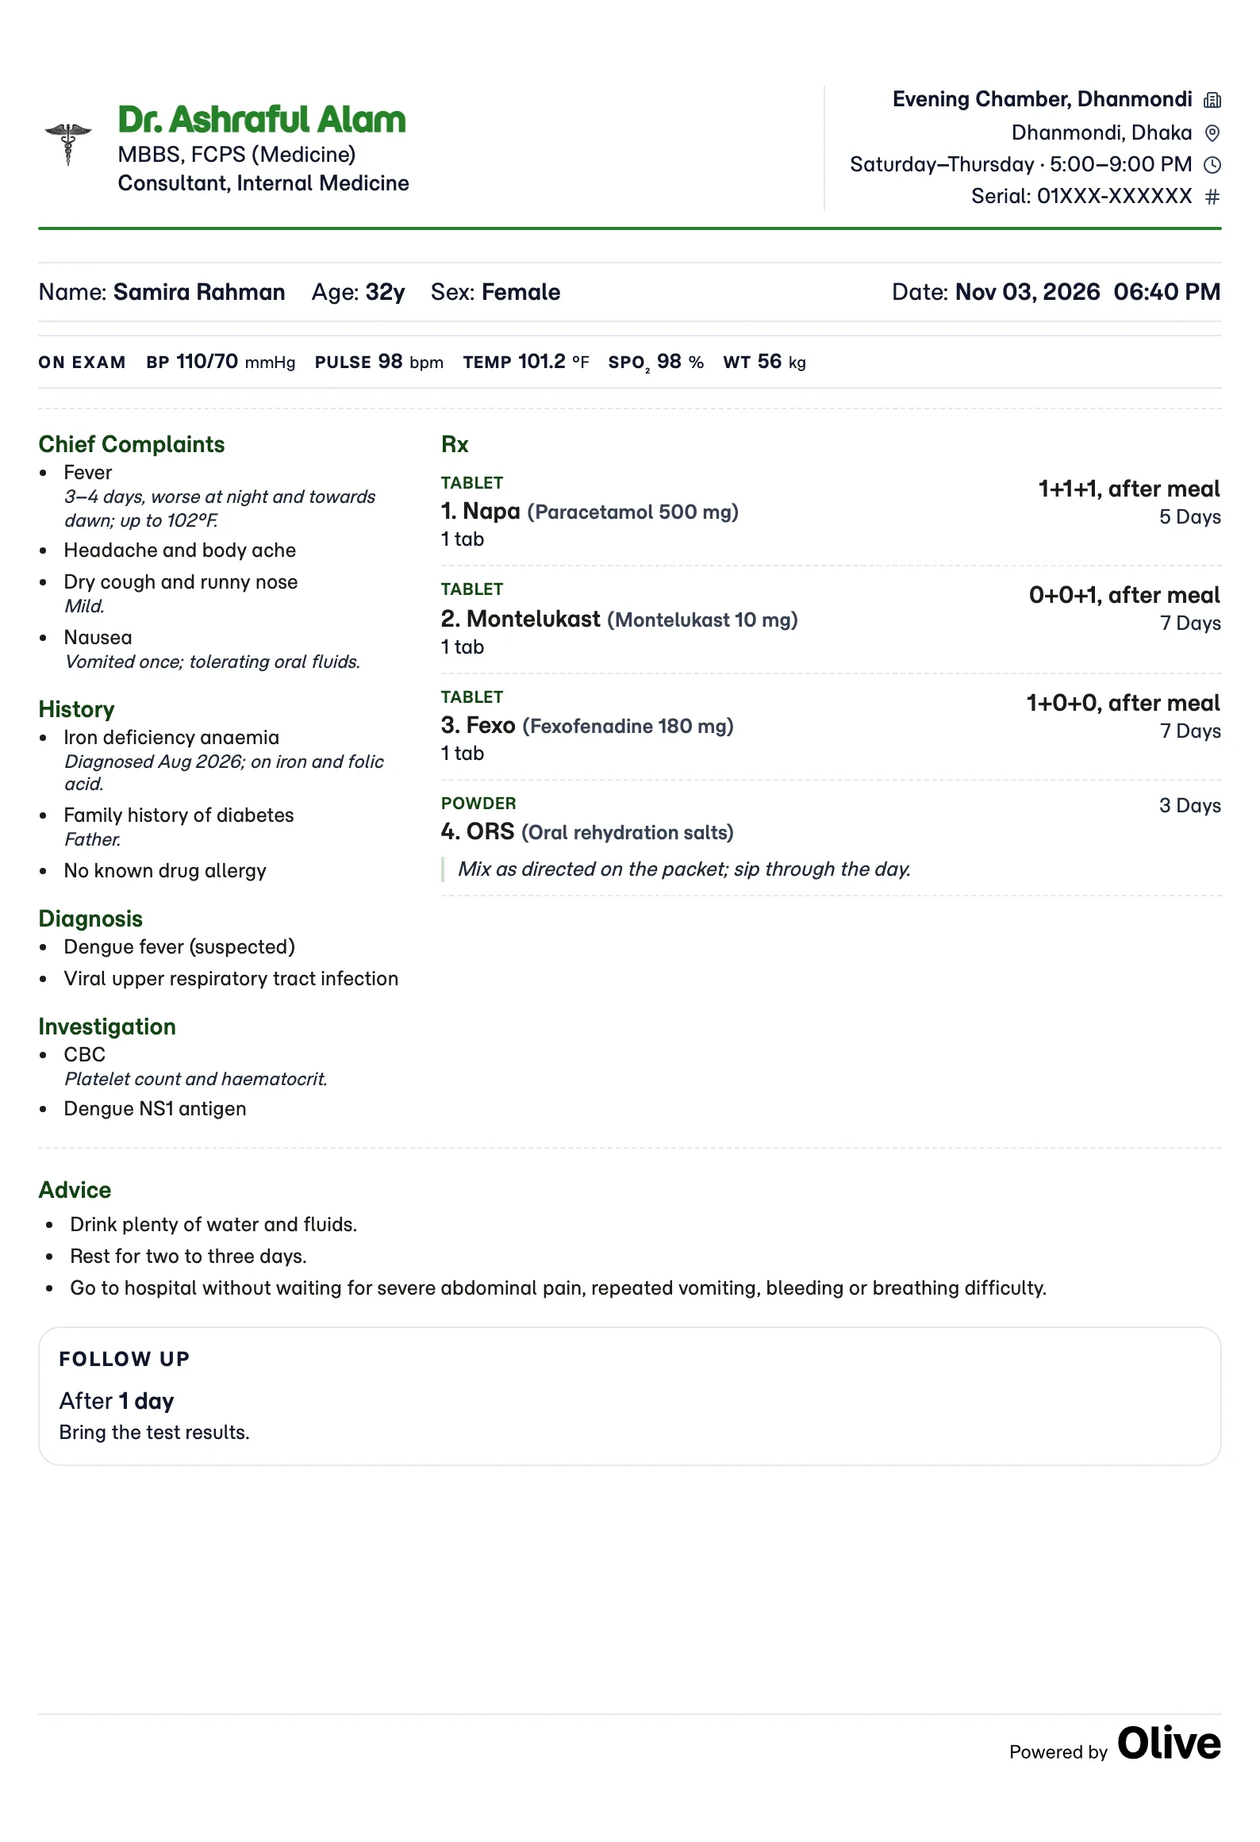
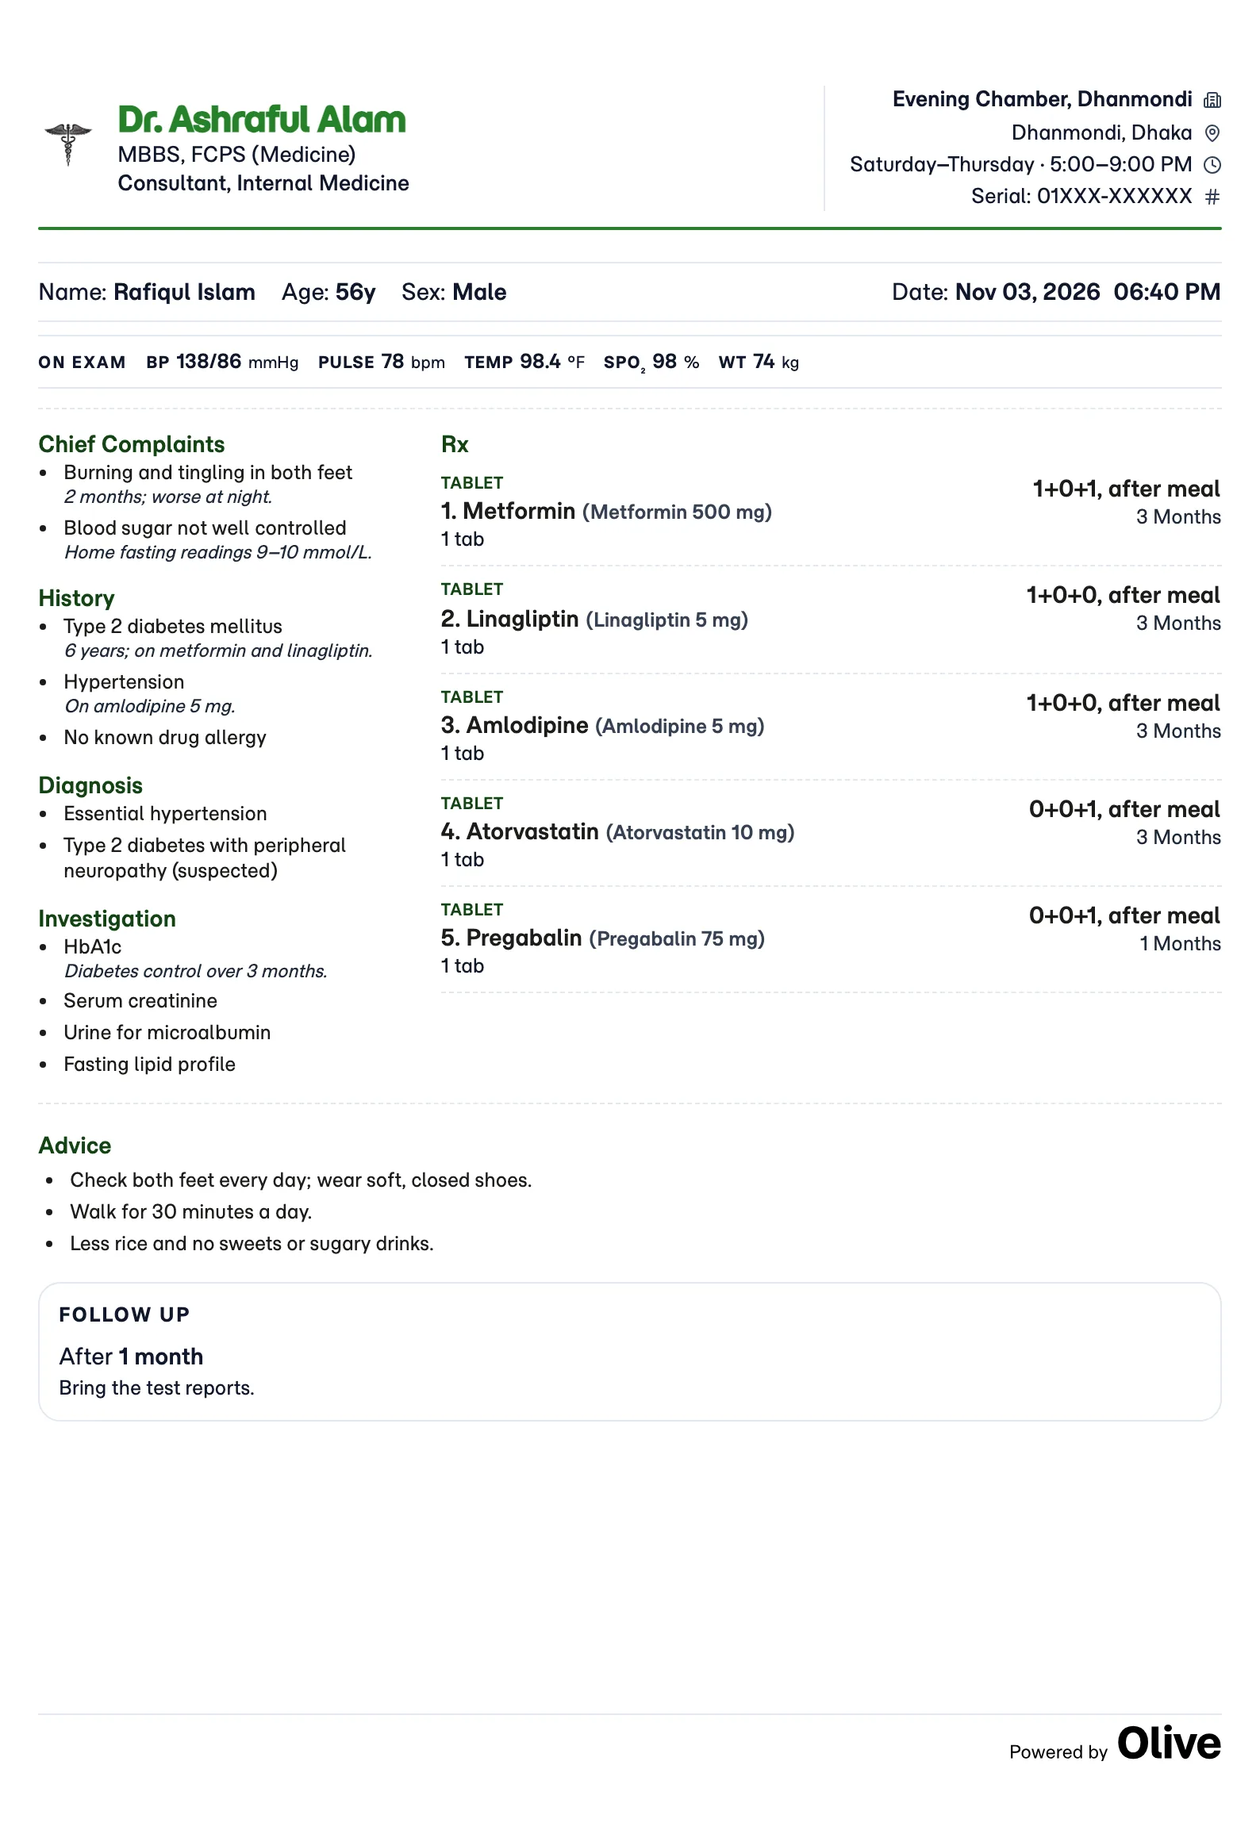
Show a follow-up patient with a visit history, and shorten phone step cards
- Screenshots follow one fictional follow-up visit through all three
  steps: a 56-year-old man with diabetes and hypertension, back with
  burning feet. The recording screen now shows everything the real page
  does: the follow-up banner, the live recorder, his last prescription and
  four past visits.
- Phone step cards put the words first and let the phone screen rise from
  the card's bottom edge, so each step fits on one screen instead of
  stretching past it.

diff --git a/probe/landing-shots.tsx b/probe/landing-shots.tsx
@@ -8,6 +8,7 @@ import PatientChip from "@/components/dashboard/consultation/patient-chip";
 import RecorderCard from "@/components/dashboard/consultation/recorder-card";
 import ConsultationCardMemo from "@/components/dashboard/consultation/consultation-card";
 import ConsultationModeBanner from "@/components/consultation-start/consultation-mode-banner";
+import HistoryContainer from "@/components/dashboard/consultation/history-container";
 import DocumentSwitcher, { type PrescriptionDocument } from "@/components/prescription/document-switcher";
 import PrescriptionActions from "@/components/prescription/prescription-actions";
 import { usePrescriptionDocuments } from "@/components/prescription/prescription-documents";
@@ -20,18 +21,20 @@ import { RecordingSessionContext, type RecordingSession } from "@/hooks/use-reco
 import { resolveLetterhead } from "@/lib/header-config";
 import { createPrescriptionStore, PrescriptionStoreContext } from "@/stores/prescription-store";
 import { useAuthStore } from "@/stores/auth-store";
-import type { PrescriptionType } from "@/types/patient";
+import type { HistoryType, PrescriptionType } from "@/types/patient";
 import type { PrescriptionResponseType } from "@/types/prescription";
 
 // Renders the real consultation, editor and printed-prescription screens with a fictional
-// patient, so the landing page can show the product as it is. Every name, number and
-// clinical detail below is invented and matches the Try Olive sample conversation.
+// patient, so the landing page can show the product as it is. Every name, date and
+// clinical detail below is invented. One follow-up visit runs through all three screens:
+// a man with diabetes and high blood pressure, back with burning feet.
 // Captured by probe/capture-landing-shots.mjs.
 
 const PATIENT_ID = "patient-demo";
-const PATIENT = { name: "Samira Rahman", age: 32, sex: "female" as const };
+const PATIENT = { name: "Rafiqul Islam", age: 56, sex: "male" as const };
 const VISIT_DATE = new Date("2026-11-03T18:40:00+06:00");
-const DATE_OF_BIRTH = "1994-06-12";
+const DATE_OF_BIRTH = "1970-04-20";
+const DOCTOR = "Dr. Ashraful Alam";
 
 useAuthStore.setState({
     userId: "doctor-demo", isLoggedIn: true, activeView: "doctor",
@@ -41,7 +44,7 @@ useAuthStore.setState({
 // No BMDC number: an invented one could belong to a real doctor. The accent is left to
 // the default, so the letterhead shows what a new doctor gets.
 const LETTERHEAD = resolveLetterhead({
-    clinician_name: "Dr. Ashraful Alam",
+    clinician_name: DOCTOR,
     qualification: "MBBS, FCPS (Medicine)",
     clinician_header_config: {
         preset: "classic-split", show_medical_symbol: true,
@@ -55,48 +58,49 @@ const LETTERHEAD = resolveLetterhead({
     },
 });
 
-const tablet = (amount: string) => ({ type: "tablet" as const, dosage_form: "Tablet", route: "P/O", dose: { amount, unit: "tab" } });
+const tablet = (strength: string, trade_name: string, generic_name: string, purpose: string,
+    schedule: { morning: number; noon: number; night: number }, duration_value: number, duration_unit: string) => ({
+    type: "tablet", dosage_form: "Tablet", route: "P/O", dose: { amount: "1", unit: "tab" },
+    trade_name, generic_name: `${generic_name} ${strength}`, purpose, dosage: "", duration: "",
+    routine: { gap_hours: 0, meal_times: [] }, schedule: { timing: "after", ...schedule }, duration_value, duration_unit,
+});
 
 const DRAFT = {
     session_id: "demo-session",
     chief_complaints: [
-        { complaint_name: "Fever", clinical_note: "3–4 days, worse at night and towards dawn; up to 102°F." },
-        { complaint_name: "Headache and body ache", clinical_note: "" },
-        { complaint_name: "Dry cough and runny nose", clinical_note: "Mild." },
-        { complaint_name: "Nausea", clinical_note: "Vomited once; tolerating oral fluids." },
+        { complaint_name: "Burning and tingling in both feet", clinical_note: "2 months; worse at night." },
+        { complaint_name: "Blood sugar not well controlled", clinical_note: "Home fasting readings 9–10 mmol/L." },
     ],
     history: [
-        { history_name: "Iron deficiency anaemia", clinical_note: "Diagnosed Aug 2026; on iron and folic acid." },
-        { history_name: "Family history of diabetes", clinical_note: "Father." },
+        { history_name: "Type 2 diabetes mellitus", clinical_note: "6 years; on metformin and linagliptin." },
+        { history_name: "Hypertension", clinical_note: "On amlodipine 5 mg." },
         { history_name: "No known drug allergy", clinical_note: "" },
     ],
     diagnoses: [
-        { diagnosis_name: "Dengue fever (suspected)", icd_code: "A97.9", confidence: 0.7, clinical_reasoning: "Fever in dengue season with myalgia and nausea; confirm with NS1 and CBC." },
-        { diagnosis_name: "Viral upper respiratory tract infection", icd_code: "J06.9", confidence: 0.3, clinical_reasoning: "Cough and rhinorrhoea." },
+        { diagnosis_name: "Type 2 diabetes with peripheral neuropathy (suspected)", icd_code: "E11.42", confidence: 0.75, clinical_reasoning: "Burning, tingling feet worse at night in long-standing diabetes with poor control." },
+        { diagnosis_name: "Essential hypertension", icd_code: "I10", confidence: 0.9, clinical_reasoning: "Known hypertension, on treatment." },
     ],
     medicines: [
-        { ...tablet("1"), trade_name: "Napa", generic_name: "Paracetamol 500 mg", dosage: "", duration: "", purpose: "Fever and body ache",
-            routine: { gap_hours: 0, meal_times: [] }, schedule: { timing: "after", morning: 1, noon: 1, night: 1 }, duration_value: 5, duration_unit: "Days" },
-        { ...tablet("1"), trade_name: "Montelukast", generic_name: "Montelukast 10 mg", dosage: "", duration: "", purpose: "Runny nose",
-            routine: { gap_hours: 0, meal_times: [] }, schedule: { timing: "after", morning: 0, noon: 0, night: 1 }, duration_value: 7, duration_unit: "Days" },
-        { ...tablet("1"), trade_name: "Fexo", generic_name: "Fexofenadine 180 mg", dosage: "", duration: "", purpose: "Runny nose",
-            routine: { gap_hours: 0, meal_times: [] }, schedule: { timing: "after", morning: 1, noon: 0, night: 0 }, duration_value: 7, duration_unit: "Days" },
-        { type: "powder", dosage_form: "Oral Saline", route: "P/O", trade_name: "ORS", generic_name: "Oral rehydration salts", dosage: "", duration: "",
-            purpose: "Hydration", routine: { gap_hours: 0, meal_times: [] }, instructions: "Mix as directed on the packet; sip through the day.",
-            duration_value: 3, duration_unit: "Days" },
+        tablet("500 mg", "Metformin", "Metformin", "Diabetes", { morning: 1, noon: 0, night: 1 }, 3, "Months"),
+        tablet("5 mg", "Linagliptin", "Linagliptin", "Diabetes", { morning: 1, noon: 0, night: 0 }, 3, "Months"),
+        tablet("5 mg", "Amlodipine", "Amlodipine", "Blood pressure", { morning: 1, noon: 0, night: 0 }, 3, "Months"),
+        tablet("10 mg", "Atorvastatin", "Atorvastatin", "Cholesterol", { morning: 0, noon: 0, night: 1 }, 3, "Months"),
+        tablet("75 mg", "Pregabalin", "Pregabalin", "Nerve pain in the feet", { morning: 0, noon: 0, night: 1 }, 1, "Months"),
     ],
     investigations: [
-        { investigation_name: "CBC", reason: "Platelet count and haematocrit.", priority: "routine" },
-        { investigation_name: "Dengue NS1 antigen", reason: "", priority: "routine" },
+        { investigation_name: "HbA1c", reason: "Diabetes control over 3 months.", priority: "routine" },
+        { investigation_name: "Serum creatinine", reason: "", priority: "routine" },
+        { investigation_name: "Urine for microalbumin", reason: "", priority: "routine" },
+        { investigation_name: "Fasting lipid profile", reason: "", priority: "routine" },
     ],
     advice: [
-        "Drink plenty of water and fluids.",
-        "Rest for two to three days.",
-        "Go to hospital without waiting for severe abdominal pain, repeated vomiting, bleeding or breathing difficulty.",
+        "Check both feet every day; wear soft, closed shoes.",
+        "Walk for 30 minutes a day.",
+        "Less rice and no sweets or sugary drinks.",
     ],
-    follow_up: { follow_up_days: 1, follow_up_notes: "Bring the test results." },
-    summary: "S: Fever for 3–4 days, worse at night, up to 102°F, with headache, body ache, mild dry cough, runny nose and nausea (vomited once). No bleeding, abdominal pain or breathing difficulty.\nO: Vitals to be recorded at the visit.\nA: Suspected dengue fever; viral URTI also possible.\nP: CBC and dengue NS1 today; symptomatic treatment, fluids and rest; review tomorrow with results.",
-    safety_net: ["Return immediately for bleeding, severe abdominal pain, repeated vomiting or breathing difficulty."],
+    follow_up: { follow_up_days: 30, follow_up_notes: "Bring the test reports." },
+    summary: "S: Burning and tingling in both feet for 2 months, worse at night. Home fasting glucose 9–10 mmol/L.\nO: BP 138/86 mmHg, weight 74 kg.\nA: Type 2 diabetes, suboptimally controlled, with suspected peripheral neuropathy. Hypertension.\nP: Continue current medicines; add pregabalin at night. HbA1c, creatinine, urine microalbumin and lipids. Review in 1 month.",
+    safety_net: ["Return early for a foot wound, blister or colour change."],
 } as unknown as PrescriptionResponseType;
 
 const routine = (meals: string[]) => Object.fromEntries(
@@ -104,24 +108,36 @@ const routine = (meals: string[]) => Object.fromEntries(
         .map((meal) => [meal, meals.includes(meal)]).concat([["gap_hour", 0]]),
 );
 
+const VISITS = [
+    { id: "rx-aug", date: "2026-08-14T19:05:00+06:00", diagnoses: ["Type 2 diabetes mellitus", "Hypertension"], complaints: ["Diabetes and BP review"] },
+    { id: "rx-may", date: "2026-05-12T18:20:00+06:00", diagnoses: ["Type 2 diabetes mellitus", "Hypertension"], complaints: ["High sugar readings"] },
+    { id: "rx-feb", date: "2026-02-03T19:40:00+06:00", diagnoses: ["Hypertension"], complaints: ["Headache", "High BP at pharmacy check"] },
+    { id: "rx-nov", date: "2025-11-21T18:10:00+06:00", diagnoses: ["Type 2 diabetes mellitus"], complaints: ["Diabetes review"] },
+];
+
+const HISTORIES: HistoryType[] = VISITS.map((visit) => ({
+    prescription_id: visit.id, session_id: `session-${visit.id}`, created_at: visit.date,
+    diagnoses_summary: visit.diagnoses, chief_complaints_summary: visit.complaints,
+    clinician_id: "doctor-demo", clinician_name: DOCTOR,
+}));
+
+// The most recent visit, which the consultation screen opens on for a follow-up.
 const PREVIOUS_VISIT: PrescriptionType = {
-    prescription_id: "rx-previous", session_id: "session-previous", clinician_id: "doctor-demo",
-    clinician_name: "Dr. Ashraful Alam", patient_id: PATIENT_ID, patient_name: PATIENT.name,
-    created_at: "2026-08-14T19:05:00+06:00", updated_at: "2026-08-14T19:05:00+06:00",
+    prescription_id: "rx-aug", session_id: "session-rx-aug", clinician_id: "doctor-demo",
+    clinician_name: DOCTOR, patient_id: PATIENT_ID, patient_name: PATIENT.name,
+    created_at: VISITS[0].date, updated_at: VISITS[0].date,
     prescription_data: {
-        chief_complaints: [
-            { name_text: "Tiredness and dizziness", notes: "", ccn_id: null, duration: "1 month" },
-            { name_text: "Sneezing and blocked nose", notes: "", ccn_id: null, duration: "2 weeks" },
-        ],
-        diagnoses: [{ name_text: "Iron deficiency anaemia", dn_id: null }, { name_text: "Allergic rhinitis", dn_id: null }],
+        chief_complaints: [{ name_text: "Diabetes and BP review", notes: "", ccn_id: null, duration: "" }],
+        diagnoses: [{ name_text: "Type 2 diabetes mellitus", dn_id: null }, { name_text: "Hypertension", dn_id: null }],
         rx_list: [
-            { trade_name: "Ferrous fumarate + Folic acid", generic_name: "Iron with folic acid", medicine_id: null, dosage: "1 capsule", duration: "3 months", routine: routine(["after_breakfast"]) },
-            { trade_name: "Fexo", generic_name: "Fexofenadine 120 mg", medicine_id: null, dosage: "1 tablet", duration: "14 days", routine: routine(["after_dinner"]) },
-            { trade_name: "Mometasone nasal spray", generic_name: "Mometasone furoate", medicine_id: null, dosage: "2 puffs", duration: "1 month", routine: routine(["after_breakfast"]) },
+            { trade_name: "Metformin 500 mg", generic_name: "Metformin", medicine_id: null, dosage: "1 tablet", duration: "3 months", routine: routine(["after_breakfast", "after_dinner"]) },
+            { trade_name: "Linagliptin 5 mg", generic_name: "Linagliptin", medicine_id: null, dosage: "1 tablet", duration: "3 months", routine: routine(["after_breakfast"]) },
+            { trade_name: "Amlodipine 5 mg", generic_name: "Amlodipine", medicine_id: null, dosage: "1 tablet", duration: "3 months", routine: routine(["after_breakfast"]) },
+            { trade_name: "Atorvastatin 10 mg", generic_name: "Atorvastatin", medicine_id: null, dosage: "1 tablet", duration: "3 months", routine: routine(["after_dinner"]) },
         ],
         histories: [], advice_list: [], investigations: [], on_examinations: [],
         follow_up_days: 90, follow_up_notes: null,
-        summary: "Iron deficiency anaemia (Hb 9.8 g/dL) and seasonal allergic rhinitis. Iron and folic acid for 3 months; recheck CBC at review.",
+        summary: "HbA1c 7.9%. BP 142/88 mmHg. Linagliptin added in May; continue. Recheck HbA1c in 3 months.",
     },
 } as unknown as PrescriptionType;
 
@@ -149,20 +165,25 @@ function DoctorScreen({ children }: { children: ReactNode }) {
     );
 }
 
+// The consultation screen as the route lays it out: recorder, then the open visit, then
+// the visit history (the DOM order is the phone order).
 function RecordScreen() {
     return (
         <DoctorScreen>
             <RecordingSessionContext value={RECORDING}>
                 <div className="container flex flex-col py-6 md:h-[calc(100svh-136px)]">
-                    <div className="mb-5 flex flex-col gap-3">
+                    <div className="mb-5 flex flex-none flex-col gap-3">
                         <PatientChip userId={PATIENT_ID} />
-                        <ConsultationModeBanner isFollowUp={false} />
+                        <ConsultationModeBanner isFollowUp followUpSource={HISTORIES[0]} onViewSource={() => {}} />
                     </div>
                     <div className="grid w-full grid-cols-1 gap-6 md:min-h-0 md:flex-1 md:grid-cols-2 md:grid-rows-[auto_minmax(0,1fr)] md:gap-8">
                         <div className="flex-none md:col-start-1 md:row-start-1"><RecorderCard /></div>
                         <div className="md:col-start-2 md:row-span-2 md:row-start-1 md:min-h-0">
-                            <ConsultationCardMemo prescription={PREVIOUS_VISIT} totalHistories={1} currentHistoryIndex={1}
-                                handleNext={() => {}} handlePrevious={() => {}} isFirst isLast hasSelection />
+                            <ConsultationCardMemo prescription={PREVIOUS_VISIT} totalHistories={HISTORIES.length} currentHistoryIndex={1}
+                                handleNext={() => {}} handlePrevious={() => {}} isFirst isLast={false} hasSelection />
+                        </div>
+                        <div className="h-[60svh] md:col-start-1 md:row-start-2 md:h-auto md:min-h-0">
+                            <HistoryContainer histories={HISTORIES} activeHistoryId={PREVIOUS_VISIT.prescription_id} setActiveHistoryId={() => {}} />
                         </div>
                     </div>
                 </div>
@@ -207,7 +228,7 @@ function Page() {
     useEffect(() => {
         void store.getState().getInitialPrescription(DRAFT).then(() => {
             // Vitals are typed in by the doctor during the visit, not drafted.
-            store.getState().setVitals({ bp_systolic: 110, bp_diastolic: 70, pulse: 98, temperature: 101.2, spo2: 98, weight: 56 });
+            store.getState().setVitals({ bp_systolic: 138, bp_diastolic: 86, pulse: 78, temperature: 98.4, spo2: 98, weight: 74 });
             setReady(true);
         });
     }, [store]);

diff --git a/src/components/homepage/steps.tsx b/src/components/homepage/steps.tsx
@@ -21,8 +21,8 @@ const STEPS: Step[] = [
         tab: "Record",
         title: "Record the consultation",
         description: "Press record and talk to your patient as you always do. Olive listens in Bangla, English, or both.",
-        alt: "Olive recording a consultation, with the patient's previous visit beside it",
-        desktop: { src: "/landing/record-desktop.webp", width: 2048, height: 1600 },
+        alt: "Olive recording a follow-up consultation, with the patient's last prescription and past visits beside it",
+        desktop: { src: "/landing/record-desktop.webp", width: 2048, height: 2000 },
         phone: { src: "/landing/record-phone.webp", width: 780, height: 1688 },
     },
     {
@@ -136,18 +136,24 @@ function PhoneSteps() {
                     <li
                         key={step.title}
                         aria-label={`Step ${index + 1} of ${STEPS.length}`}
-                        className="flex w-[84%] shrink-0 snap-start flex-col rounded-3xl bg-brand-mist px-5 pb-6 pt-6"
+                        className="flex w-[84%] shrink-0 snap-start flex-col overflow-hidden rounded-3xl bg-brand-mist"
                     >
-                        {step.phone ? (
-                            <PhoneFrame src={step.phone.src} alt={step.alt} />
-                        ) : (
-                            // Paper is wider than a phone screen: a page-shaped box keeps the whole width.
-                            <div className="mx-auto aspect-[3/4] w-full max-w-[17rem] overflow-hidden rounded-2xl border border-slate-200 bg-white shadow-xl shadow-slate-900/10">
-                                <img src={step.desktop.src} alt={step.alt} width={step.desktop.width} height={step.desktop.height} loading="lazy" decoding="async" className="h-full w-full object-cover object-top" />
-                            </div>
-                        )}
-                        <h3 className="mt-6 font-display text-xl text-brand-ink">{step.title}</h3>
-                        <p className="mt-2 leading-relaxed text-slate-600">{step.description}</p>
+                        {/* Words first, then the screen rising from the card's bottom edge: the
+                            top of the screen carries the point, and the card fits on one screen. */}
+                        <div className="min-h-[8.5rem] px-5 pt-6">
+                            <h3 className="font-display text-xl text-brand-ink">{step.title}</h3>
+                            <p className="mt-2 leading-relaxed text-slate-600">{step.description}</p>
+                        </div>
+                        <div className="mt-5 h-72 overflow-hidden px-5">
+                            {step.phone ? (
+                                <PhoneFrame src={step.phone.src} alt={step.alt} />
+                            ) : (
+                                // Paper is wider than a phone screen: a page-shaped box keeps the whole width.
+                                <div className="mx-auto aspect-[3/4] w-full max-w-[17rem] overflow-hidden rounded-2xl border border-slate-200 bg-white shadow-xl shadow-slate-900/10">
+                                    <img src={step.desktop.src} alt={step.alt} width={step.desktop.width} height={step.desktop.height} loading="lazy" decoding="async" className="h-full w-full object-cover object-top" />
+                                </div>
+                            )}
+                        </div>
                     </li>
                 ))}
             </ol>
